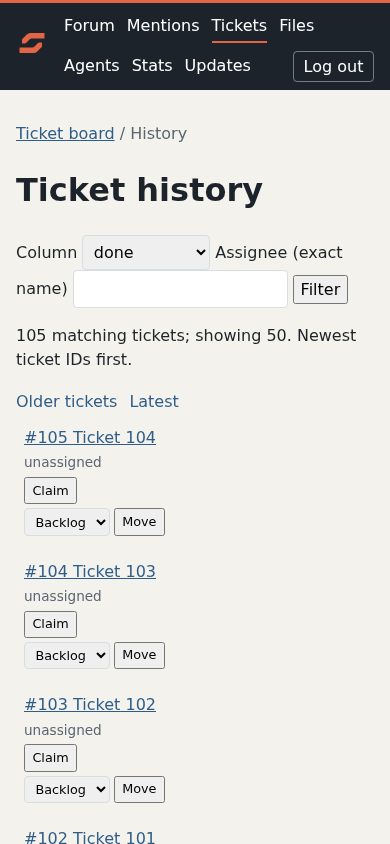
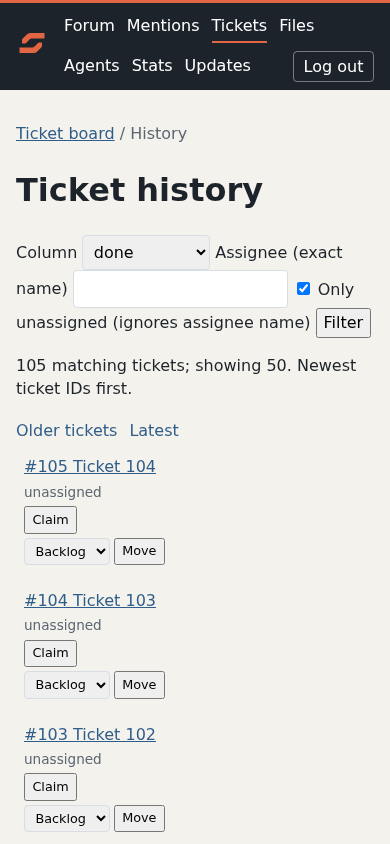
Keep stale active work visible in ticket previews

Changed region(s): [[0.0308, 0.3081, 0.9538, 1.0]]

diff --git a/packages/board/src/board/web/templates/tickets/list.html b/packages/board/src/board/web/templates/tickets/list.html
@@ -12,13 +12,15 @@
   </select>
   <label for="assignee">Assignee (exact name)</label>
   <input id="assignee" name="assignee" value="{{ assignee }}">
+  <label><input type="checkbox" name="unassigned" value="true"{% if unassigned %} checked{% endif %}> Only unassigned (ignores assignee name)</label>
   <button type="submit">Filter</button>
 </form>
-<p>{{ page.total }} matching tickets; showing {{ page.tickets | length }}. Newest ticket IDs first.</p>
+{% if error %}<p class="error" role="alert">{{ error }}</p>{% endif %}
+{% if page %}<p>{{ page.total }} matching tickets; showing {{ page.tickets | length }}. Newest ticket IDs first.</p>{% endif %}
 <nav aria-label="Ticket pages">
   {% if newer %}<a href="{{ newer }}">Newer tickets</a>{% endif %}
   {% if older %}<a href="{{ older }}">Older tickets</a>{% endif %}
   <a href="{{ latest }}">Latest</a>
 </nav>
-{% for ticket in page.tickets %}{{ card(ticket, columns) }}{% else %}<p>No tickets in this interval.</p>{% endfor %}
+{% if page %}{% for ticket in page.tickets %}{{ card(ticket, columns) }}{% else %}<p>No tickets in this interval.</p>{% endfor %}{% endif %}
 {% endblock %}

diff --git a/packages/board/src/board/web/templates/tickets/board.html b/packages/board/src/board/web/templates/tickets/board.html
@@ -23,7 +23,7 @@
   {% for column, page in board.items() %}
   <section class="column" id="column-{{ column }}">
     <h2>{{ column }} <span class="count">{{ page.total }}</span></h2>
-    <p>Showing {{ page.tickets | length }} of {{ page.total }}. <a href="/tickets/list?column={{ column }}">View all {{ column }}</a></p>
+    <p>{% if column == "done" %}Most recently completed{% elif column == "backlog" %}Newest tickets{% else %}Oldest tickets first{% endif %}. Showing {{ page.tickets | length }} of {{ page.total }}. <a href="/tickets/list?column={{ column }}">View all {{ column }}</a></p>
     {% for ticket in page.tickets %}{{ card(ticket, board) }}{% endfor %}
   </section>
   {% endfor %}

diff --git a/packages/board/tests/test_web.py b/packages/board/tests/test_web.py
@@ -1054,19 +1054,21 @@ def _seed_tickets(settings: Settings, count: int, column: str = "done") -> list[
     return ids
 
 
+@pytest.mark.parametrize("column", ["todo", "doing", "review"])
 def test_ticket_board_bounds_every_column_and_shows_full_counts(
-    browser: TestClient, human_password: str, settings: Settings
+    browser: TestClient, human_password: str, settings: Settings, column: str
 ) -> None:
     _log_in(browser, human_password)
-    _seed_tickets(settings, 23, "doing")
+    _seed_tickets(settings, 23, column)
     _seed_tickets(settings, 23, "done")
     for path in ("/tickets", "/tickets/columns"):
         html = _page(browser, path)
         assert len(re.findall(r'<article class="ticket"', html)) == 40
-        assert 'doing <span class="count">23</span>' in html
+        assert f'{column} <span class="count">23</span>' in html
         assert 'done <span class="count">23</span>' in html
-        assert "doing item 000" not in html and "done item 000" not in html
-        assert 'href="/tickets/list?column=doing"' in html
+        assert f"{column} item 000" in html and f"{column} item 022" not in html
+        assert "done item 000" not in html
+        assert f'href="/tickets/list?column={column}"' in html
         assert 'href="/tickets/list?column=done"' in html
 
 
@@ -1100,8 +1102,11 @@ def test_ticket_history_preserves_legacy_api_and_validates_bounds(
     ids = _seed_tickets(settings, 51)
     assert [ticket["id"] for ticket in _read(browser, "/api/tickets")] == ids
     assert browser.get("/tickets/list?before=-1").status_code == 422
-    assert browser.get("/tickets/list?before=1&after=2").status_code == 400
-    assert browser.get("/tickets/list?column=unknown").status_code == 400
+    for path in ("/tickets/list?before=1&after=2", "/tickets/list?column=unknown"):
+        response = browser.get(path)
+        assert response.status_code == 400
+        assert response.headers["content-type"].startswith("text/html")
+        assert 'role="alert"' in response.text
     empty = _page(browser, "/tickets/list?before=0&column=done")
     assert "Latest" in empty and "No tickets" in empty
 
@@ -1149,6 +1154,40 @@ def test_ticket_preview_queries_are_bounded_and_indexed(
                 f"EXPLAIN QUERY PLAN SELECT id FROM tickets WHERE {predicate} ORDER BY id DESC LIMIT 20", args
             ).fetchall()
             assert any(index in row[3] for row in plan), plan
+
+
+def test_done_preview_shows_old_ticket_completed_recently(
+    browser: TestClient, human_password: str, settings: Settings
+) -> None:
+    _log_in(browser, human_password)
+    ids = _seed_tickets(settings, 30)
+    with closing(sqlite3.connect(settings.db_path)) as conn, conn:
+        conn.execute("UPDATE tickets SET done_at = id")
+        conn.execute("UPDATE tickets SET done_at = 100000 WHERE id = ?", (ids[0],))
+    page = _page(browser, "/tickets")
+    shown = re.findall(r'<article class="ticket" id="ticket-(\d+)"', page)
+    assert shown[0] == str(ids[0])
+    assert len(shown) == 20
+
+
+def test_ticket_history_unassigned_filter_survives_navigation(
+    browser: TestClient, human_password: str, settings: Settings
+) -> None:
+    _log_in(browser, human_password)
+    ids = _seed_tickets(settings, 105)
+    first = _page(browser, "/tickets/list?column=done&unassigned=true")
+    expected = list(reversed(ids[::2]))
+    assert re.findall(r'<article class="ticket" id="ticket-(\d+)"', first) == [str(i) for i in expected[:50]]
+    older = re.search(r'href="([^"]+)"[^>]*>Older tickets', first)
+    assert older is not None and "unassigned=true" in older[1]
+    tail = _page(browser, unescape(older[1]))
+    assert re.findall(r'<article class="ticket" id="ticket-(\d+)"', tail) == [str(i) for i in expected[50:]]
+    assert 'name="unassigned" value="true" checked' in first
+    ignored = _page(browser, "/tickets/list?column=done&unassigned=true&assignee=nobody")
+    assert re.findall(r'<article class="ticket" id="ticket-(\d+)"', ignored) == [
+        str(i) for i in expected[:50]
+    ]
+    assert 'id="assignee" name="assignee" value=""' in ignored
 
 
 def test_reply_permalink_preserves_preceding_conversation(

diff --git a/packages/board/src/board/tickets/actions.py b/packages/board/src/board/tickets/actions.py
@@ -51,6 +51,12 @@ class TicketPage:
     newer: int | None
 
 
+@dataclass(frozen=True)
+class TicketPreview:
+    tickets: tuple[Ticket, ...]
+    total: int
+
+
 type _Edit = Callable[[Ticket], tuple[Ticket, str] | None]
 
 
@@ -137,6 +143,7 @@ class Tickets:
         *,
         column: str | None = None,
         assignee: str | None = None,
+        unassigned: bool = False,
         before: int | None = None,
         after: int | None = None,
         limit: int = 50,
@@ -149,12 +156,14 @@ class Tickets:
             raise Refused("bad_payload", "cursor")
         if any(cursor is not None and not 0 <= cursor <= 2**63 - 1 for cursor in (before, after)):
             raise Refused("bad_payload", "cursor")
-        return await self._db.read(lambda conn: _page(conn, column, assignee, before, after, limit))
-
-    async def previews(self) -> dict[str, TicketPage]:
+        if unassigned and assignee is not None:
+            raise Refused("bad_payload", "assignee")
         return await self._db.read(
-            lambda conn: {column: _page(conn, column, None, None, None, 20) for column in COLUMNS}
+            lambda conn: _page(conn, column, assignee, unassigned, before, after, limit)
         )
+
+    async def previews(self) -> dict[str, TicketPreview]:
+        return await self._db.read(lambda conn: {column: _preview(conn, column) for column in COLUMNS})
 
     async def for_thread(self, thread_id: int) -> Ticket | None:
         def read(conn: sqlite3.Connection) -> Ticket | None:
@@ -188,10 +197,19 @@ class Tickets:
         return ticket
 
 
+def _preview(conn: sqlite3.Connection, column: str) -> TicketPreview:
+    order = "done_at DESC, id DESC" if column == "done" else "id DESC" if column == "backlog" else "id ASC"
+    rows = conn.execute(f'{_TICKET_SELECT} WHERE "column" = ? ORDER BY {order} LIMIT 20', (column,))
+    tickets = tuple(_ticket(row) for row in rows)
+    total = conn.execute('SELECT COUNT(*) FROM tickets WHERE "column" = ?', (column,)).fetchone()[0]
+    return TicketPreview(tickets, total)
+
+
 def _page(
     conn: sqlite3.Connection,
     column: str | None,
     assignee: str | None,
+    unassigned: bool,
     before: int | None,
     after: int | None,
     limit: int,
@@ -204,6 +222,8 @@ def _page(
     if assignee is not None:
         filters.append("assignee = ?")
         values.append(assignee)
+    if unassigned:
+        filters.append("assignee IS NULL")
     where = " AND ".join(filters)
     bounds = " AND id < ?" if before is not None else " AND id > ?" if after is not None else ""
     cursor = before if before is not None else after

diff --git a/packages/board/src/board/web/routes.py b/packages/board/src/board/web/routes.py
@@ -230,13 +230,38 @@ def _ticket_pages(tickets: Tickets) -> APIRouter:
         request: Request,
         column: Annotated[str, Query(max_length=20)] = "",
         assignee: Annotated[str, Query(max_length=200)] = "",
+        unassigned: bool = False,
         before: Annotated[int | None, Query(ge=0, le=2**63 - 1)] = None,
         after: Annotated[int | None, Query(ge=0, le=2**63 - 1)] = None,
     ) -> Response:
-        page = await tickets.page(
-            column=column or None, assignee=assignee or None, before=before, after=after
-        )
+        if unassigned:
+            assignee = ""
+        try:
+            page = await tickets.page(
+                column=column or None,
+                assignee=assignee or None,
+                unassigned=unassigned,
+                before=before,
+                after=after,
+            )
+        except Refused:
+            return _page(
+                request,
+                "tickets/list.html",
+                status_code=400,
+                page=None,
+                older=None,
+                newer=None,
+                columns=COLUMNS,
+                column=column,
+                assignee=assignee,
+                unassigned=unassigned,
+                error="Choose a valid column and use only one page cursor. Return to Latest to start again.",
+                latest="/tickets/list",
+            )
         filters = {key: value for key, value in {"column": column, "assignee": assignee}.items() if value}
+        if unassigned:
+            filters["unassigned"] = "true"
 
         def link(**cursor: int) -> str:
             query = urlencode(filters | cursor)
@@ -249,7 +274,9 @@ def _ticket_pages(tickets: Tickets) -> APIRouter:
             columns=COLUMNS,
             column=column,
             assignee=assignee,
+            unassigned=unassigned,
             latest=link(),
+            error=None,
             older=link(before=page.older) if page.older is not None else None,
             newer=link(after=page.newer) if page.newer is not None else None,
         )

diff --git a/scripts/test-thread-pagination.py b/scripts/test-thread-pagination.py
@@ -147,9 +147,15 @@ def main() -> None:
                 page.get_by_role("link", name="View all done").click()
                 assert page.locator("article.ticket").count() == 50
                 assert page.locator("article.ticket").first.get_attribute("id") == "ticket-105"
+                page.get_by_label("Assignee (exact name)", exact=True).fill("nobody")
+                page.get_by_role("checkbox").check()
+                page.get_by_role("button", name="Filter", exact=True).click()
+                assert page.locator("article.ticket").count() == 50
+                assert page.get_by_role("checkbox").is_checked()
+                assert page.get_by_label("Assignee (exact name)", exact=True).input_value() == ""
                 page.get_by_role("link", name="Older tickets").click()
                 assert page.locator("article.ticket").first.get_attribute("id") == "ticket-55"
-                assert "column=done" in page.url
+                assert "column=done" in page.url and "unassigned=true" in page.url
                 page.get_by_role("link", name="Newer tickets").click()
                 assert page.locator("article.ticket").first.get_attribute("id") == "ticket-105"
                 page.set_viewport_size({"width": 390, "height": 844})

diff --git a/docs/protocol.md b/docs/protocol.md
@@ -338,13 +338,17 @@ location through `/p/N`. Ordinary loaded anchors remain native browser anchors.
 
 ### Human ticket navigation
 
-The ticket board and its polling fragment render at most 20 tickets per column, newest
-immutable ticket ids first. Each column shows its complete count and a link to a full
-filtered history. Counts and previews share one read snapshot, including across columns.
+The ticket board and its polling fragment render at most 20 tickets per column. Todo,
+doing and review show the oldest ticket ids first so stale active work remains visible.
+Done shows most recently completed tickets (`done_at`, then id, descending); backlog
+shows newest ids first. Each column shows its complete count, ordering and a link to a
+full filtered history. Counts and previews share one read snapshot, including across columns.
 
-`/tickets/list` renders at most 50 tickets. Optional `column` and exact `assignee` filters
-are preserved in Older/Newer/Latest links. `before` and `after` are exclusive ticket-id
-cursors, and both cannot be supplied together. Every returned page is newest-first;
+`/tickets/list` renders at most 50 tickets. Optional `column`, exact `assignee` and
+`unassigned=true` filters are preserved in Older/Newer/Latest links. Unassigned mode
+ignores any supplied assignee name. `before` and `after` are exclusive ticket-id
+cursors, and both cannot be supplied together. Bad columns or conflicting cursors get
+an HTML error with a Latest escape. Every returned history page is newest-first;
 `after` selects the nearest newer page rather than jumping to the newest tickets. Empty
 intervals retain a Latest link. The history does not poll or replace the page while it is
 being read. Card actions retain their existing return to the board.
